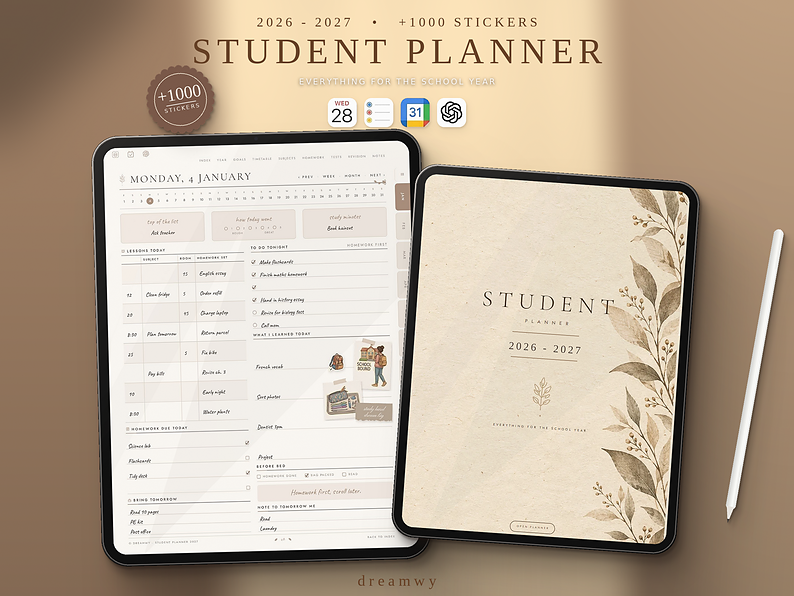
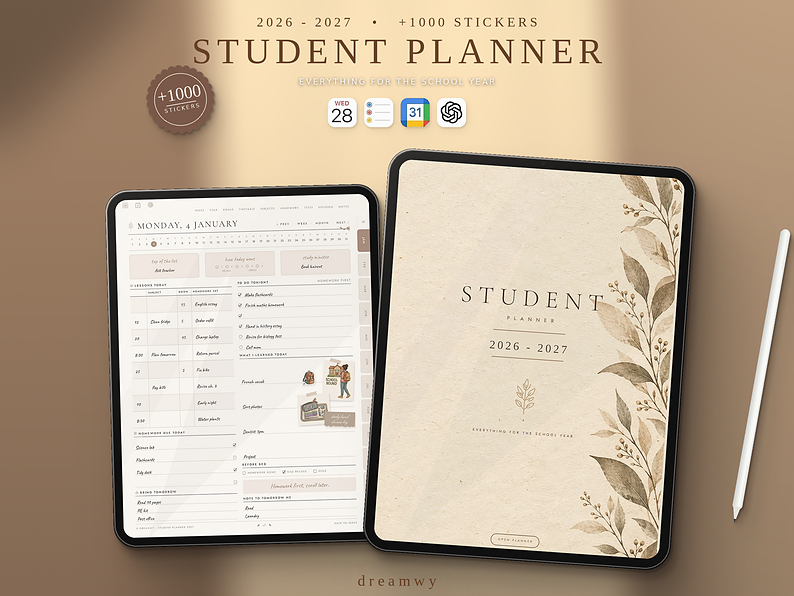
Student mockup: cover iPad bigger and in front, overlapping the page iPad
Claude-Session: https://claude.ai/code/session_015ZGVvYxuW9E1f2kNKHXQzt

Changed region(s): [[0.0907, 0.2114, 0.9068, 0.9966], [0.9068, 0.3624, 1.0, 0.8758], [0.6045, 0.6342, 0.6952, 0.7248]]

diff --git a/mockup/make_student_mockup.py b/mockup/make_student_mockup.py
@@ -245,8 +245,8 @@ def place(dev, cx, cy):
     canvas.alpha_composite(dev, (x, y))
 
 
-place(tablet(daily, 1300, 1.5), 790, 1050)       # daily page on the left, behind
-place(tablet(cover, 1130, -4), 1650, 1085)     # cover on the right, in front: it overlaps the right edge of the page iPad
+place(tablet(daily, 1080, 1.5), 745, 1105)       # daily page on the left, behind (the smaller iPad)
+place(tablet(cover, 1220, -4), 1600, 1085)     # cover on the right, in front and bigger: it overlaps the right edge of the page iPad
 
 # pencil lying on the cover
 pen = Image.new("RGBA", (900, 30), (0, 0, 0, 0))
@@ -264,8 +264,8 @@ pd.polygon([(850, 4), (900, 15), (850, 26)], fill=(232, 228, 222, 255))
 pd.polygon([(888, 12), (900, 15), (888, 18)], fill=(60, 56, 54, 255))
 pd.rectangle((120, 5, 720, 7), fill=(255, 255, 255, 255))
 pen = pen.rotate(-100, expand=True, resample=Image.BICUBIC)
-drop(pen.split()[3], 2185, 690, [(36, 52, 22, .30), (14, 20, 7, .45), (4, 6, 3, .6)])
-canvas.alpha_composite(pen, (2185, 690))
+drop(pen.split()[3], 2205, 690, [(36, 52, 22, .30), (14, 20, 7, .45), (4, 6, 3, .6)])
+canvas.alpha_composite(pen, (2205, 690))
 
 
 # "+1000 STICKERS" seal
